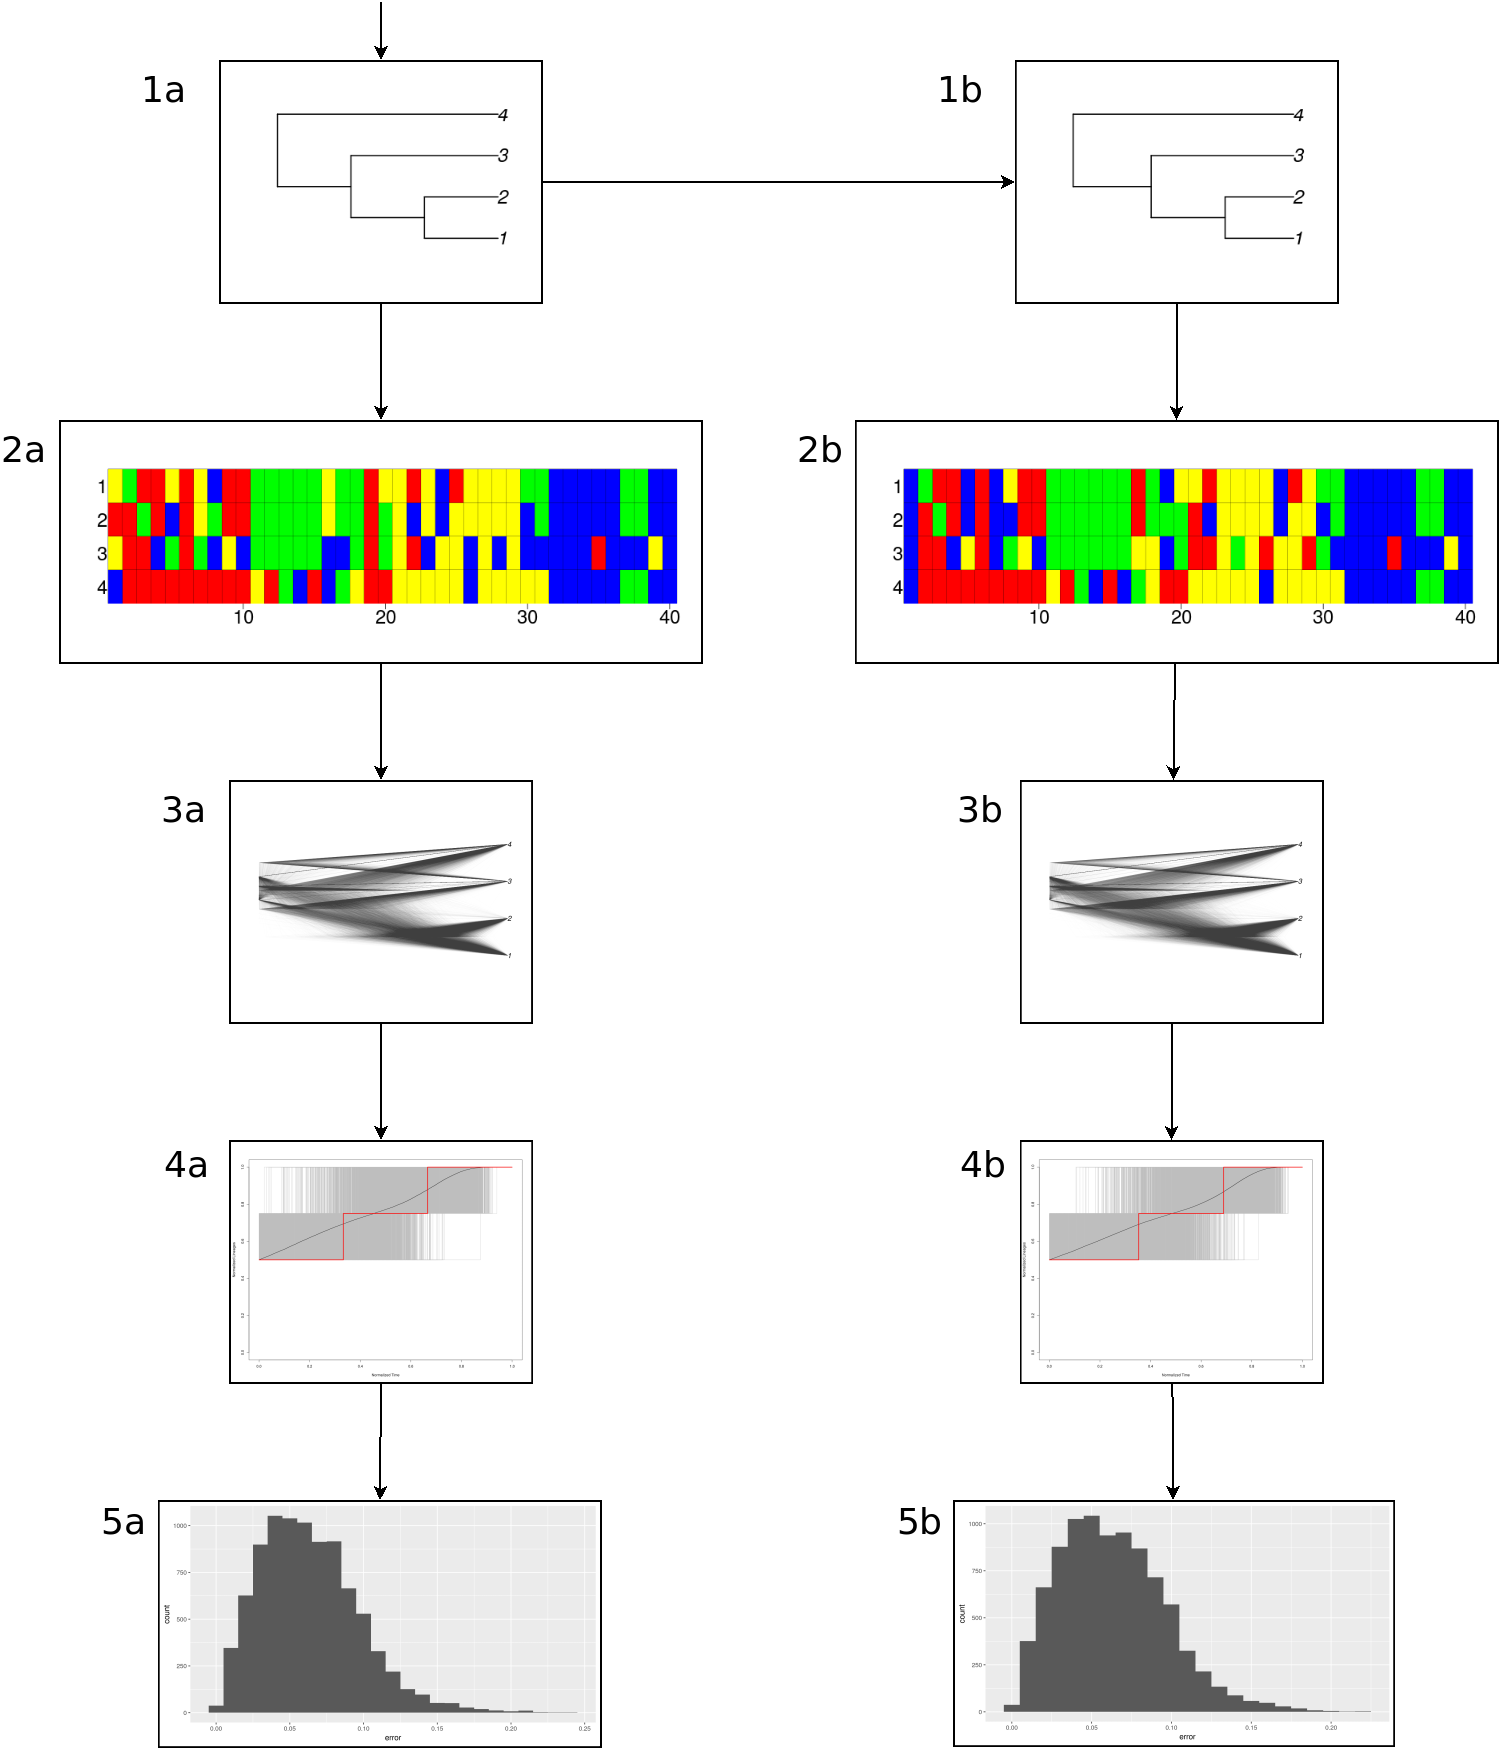
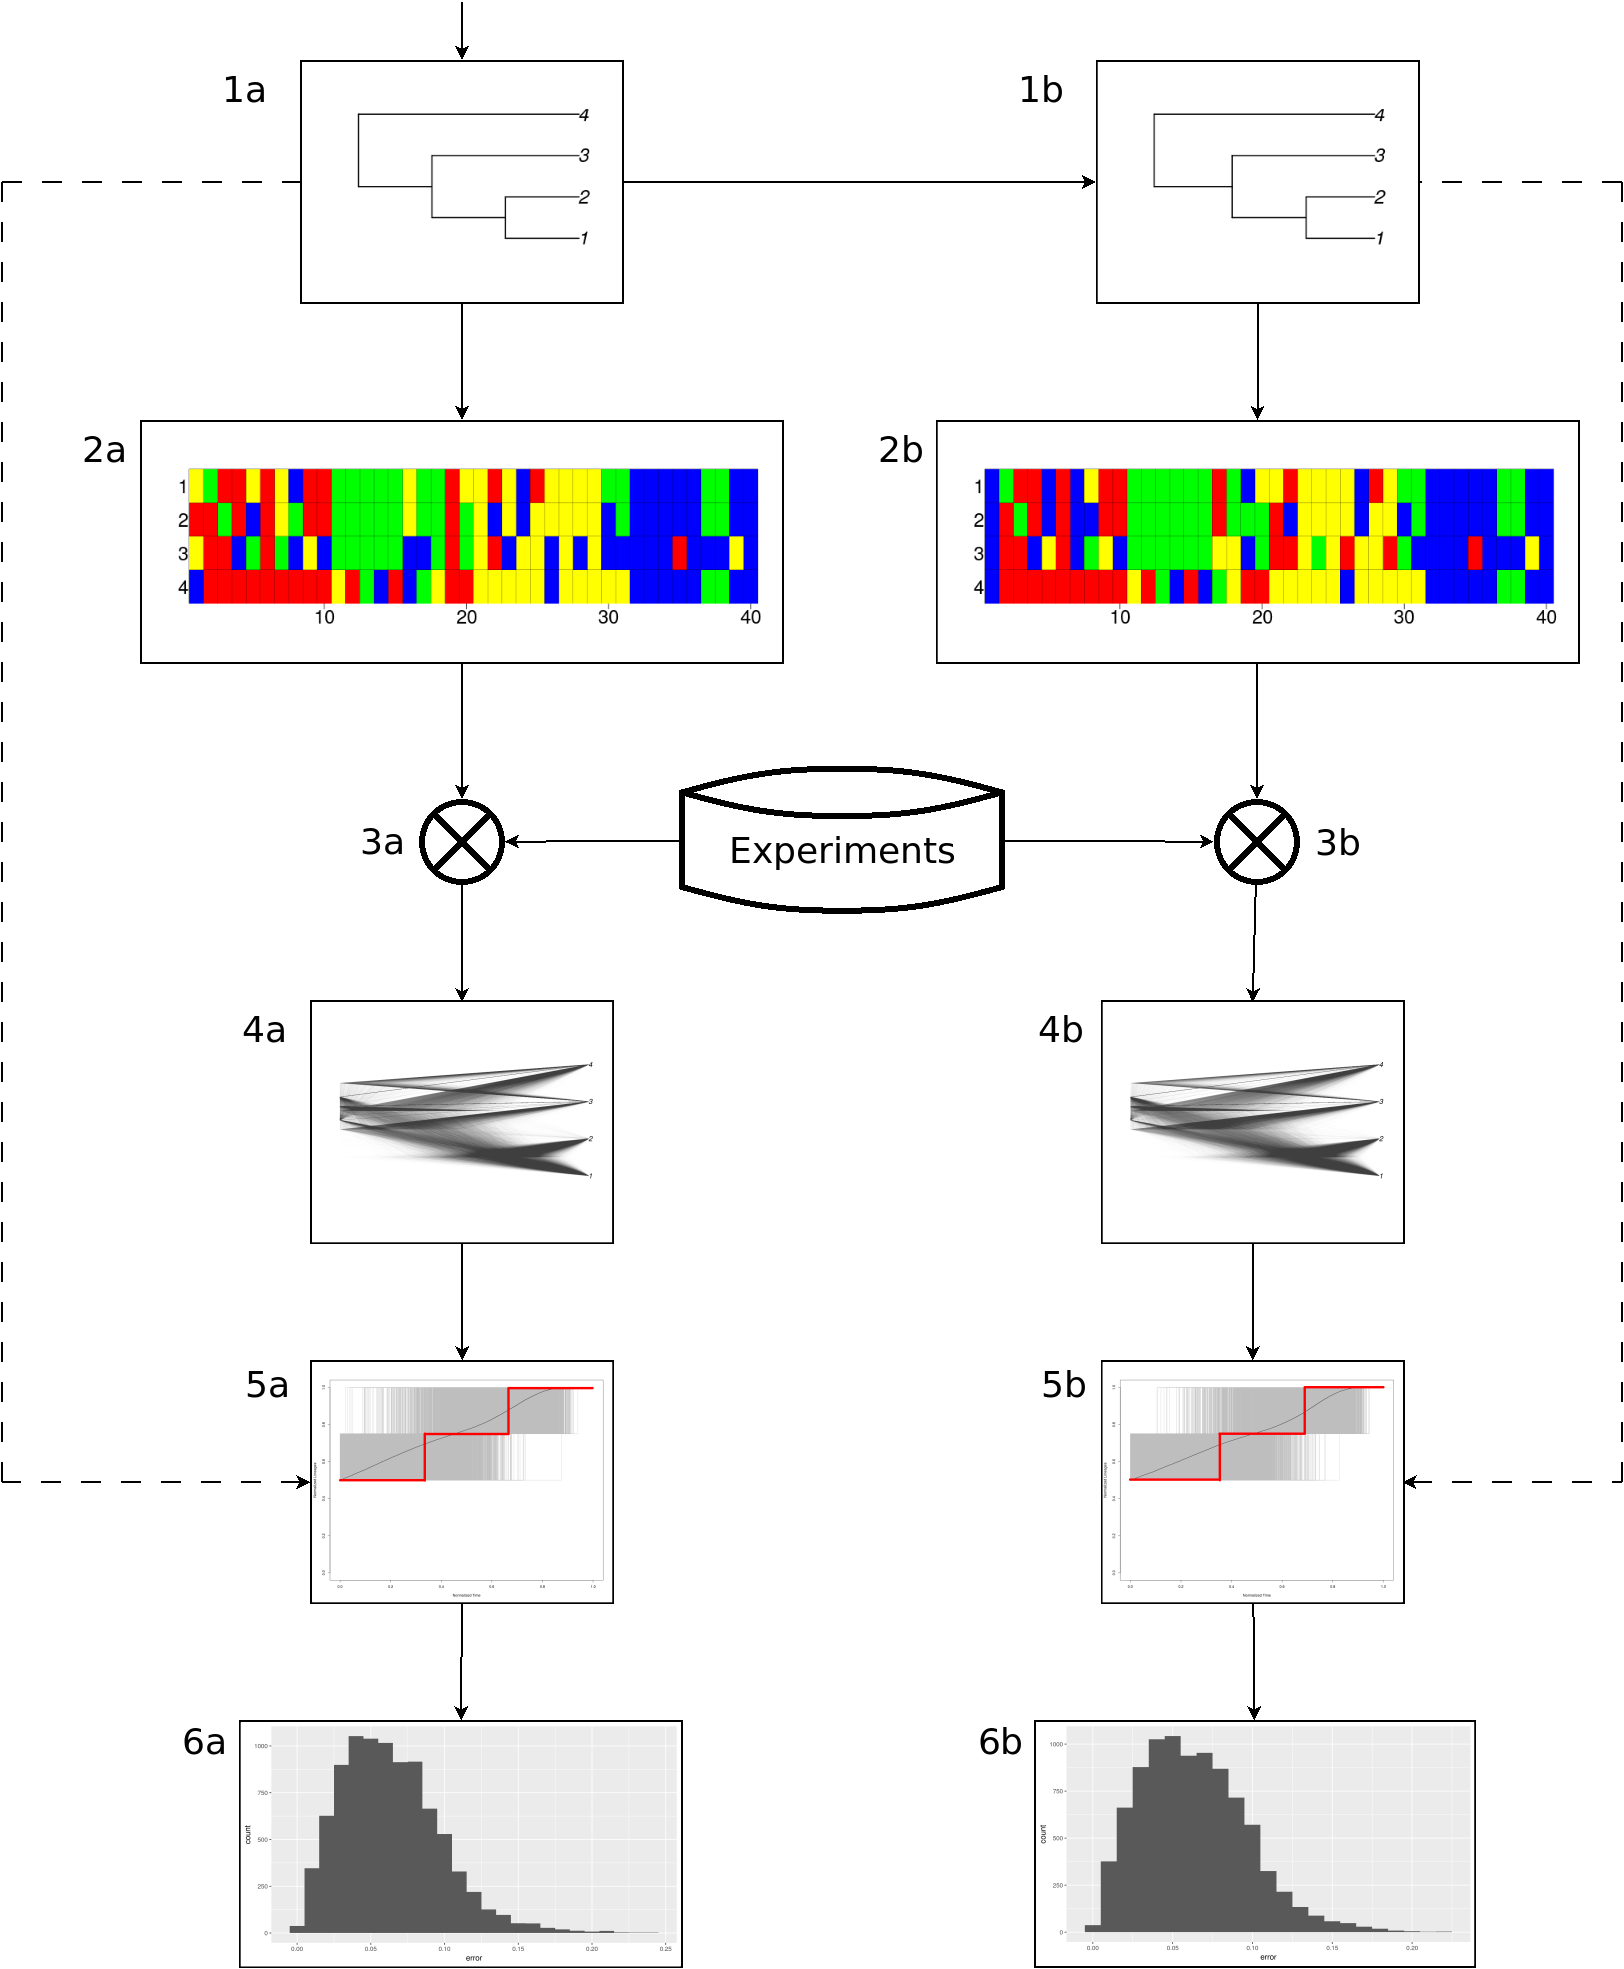
First draft ready for feedback by @rsetienne

diff --git a/article.tex b/article.tex
@@ -214,17 +214,20 @@ recent common ancestor' (MRCA) priors within BEAST2, allow to create a time-cali
   \caption{
     \texttt{pirouette} pipeline. 
     The pipeline starts from a true phylogeny (1a), 
-    that is converted to an alignment (2a), which is used
-    to create a BEAST2 posterior of phylogenies (3a),
-    which is compared to the true phylogeny (1a) \giovanni{this makes me think that we might need an arrow going from 1a to 4a, maybe (and i say maybe) the arrow could be in red to highlight that the "true" nltt is in red too. BTW, the red line is not supervisible.} using
-    the nLTT statistic. (4a) shows the nLTT of the true tree in red,
+    that is converted to an alignment (2a).
+    The experiments are filtered (3a), possibly based on the
+    alignment (2a), to determine which experiments are actually run.
+    The experiment that are actually performed, use the 
+    alignment (2a) to create a BEAST2 posterior of phylogenies (4a),
+    which is compared to the true phylogeny (1a) 
+    using the nLTT statistic. (5a) shows the nLTT of the true tree in red,
     the nLTT of all individual posterior trees in grey, and the average
     nLTT statistic of all posterior trees in black.
     Taking the differences between the true tree's nLTT and each posterior's
     nLTT results in an error distribution, here displayed as a histogram
-    of error values (5a).
+    of error values (6a).
     Optionally, a twin phylogeny (1b) can be generated from a true
-    phylogeny (1a), which then results in an error distribution (5b) with
+    phylogeny (1a), which then results in an error distribution (6b) with
     the similar intermediate steps 
   }
   \label{fig:pipeline}
@@ -250,7 +253,8 @@ a clock model, a random number generator (RNG) seed and a location
 where the alignment is saved to. This step is relatively fast, but longer
 DNA alignments will noticeably slow down the inference step.
 
-The second step selects an inference model, using the alignment \giovanni{Is it worth to add it in the figure, maybe on the side of the vertical pipeline? It could be something like an arrow moving horizontally to the box of inference model. Then the box could have another arrow pointing at the arrow connecting 2 and 3. If you think this is too complicated, and not easy to follow for the reader you can discard it.}.
+The second step selects experiments to be actually run, 
+based on the experiments and the alignment (Fig.~\ref{fig:pipeline}, 2a $\rightarrow$ 3a) 
 The user can specify whether to use the generative model or select the best model from a set of inference models. 
 When selecting the generative model, the site and clock model used in the alignment simulation are used in the inference. Because the given phylogeny (on which the alignment is based)
 may have followed any tree prior (i.e. speciation model), the user needs
@@ -265,7 +269,7 @@ Using BEAST2 packages (in a scripted way) can only be done under Linux and Mac;
 inference model selection is not available on Windows.
 
 The third step infers a Bayesian posterior from the simulated 
-alignment (Fig.~\ref{fig:pipeline}, 2a $\rightarrow$ 3a),
+alignment (Fig.~\ref{fig:pipeline}, 2a $\rightarrow$ 3a $\rightarrow$ 4a),
 using the inference model(s) selected in the previous step. The user
 can specify the additional parameters needed for the BEAST2 run, which
 are the Markov-Chain Monte Carlo (MCMC) setup, 
@@ -275,9 +279,8 @@ An MRCA prior allows the inferred phylogeny to have a dated crown age.
 
 The fourth step compares the true tree to each posterior tree
 error using the nLTT statistic (\cite{janzen2015approximate}) 
-(Fig.~\ref{fig:pipeline}, 3a $\rightarrow$ 4a), resulting
-in an error distribution (Fig.~\ref{fig:pipeline}, 4a $\rightarrow$ 5a).
-\richel{I would not mind to remove 4a and 4b from the figure}
+(Fig.~\ref{fig:pipeline}, 4a $\rightarrow$ 5a), resulting
+in an error distribution (Fig.~\ref{fig:pipeline}, 5a $\rightarrow$ 6a).
 The nLTT statistic is used by default, but also a user-defined error statistic can be used. As an example,
 \verb;pirouette; supplies one custom error statistic,
 that uses an absolute difference in the gamma statistic [\cite{pybus2000testing}].
@@ -294,7 +297,9 @@ An optional step is to generate a 'twin tree' (Fig.~\ref{fig:pipeline}, 1a $\rig
 that will be analyzed in the same way as the true tree.
 The twin tree has the same topology as the given phylogeny, 
 yet its branching times are simulated according to 
-the tree prior used by BEAST2 to produce a posterior \giovanni{is it true? is it Yule or BD? Please check}.
+the tree prior used by BEAST2 to produce a posterior 
+\giovanni{is it true? is it Yule or BD? Please check}
+\richel{It is Yule}.
 The goal of this procedure is to generate a tree 
 to use as a control for the main experiment.
 We produce the twin tree according to the following procedure.
@@ -385,10 +390,8 @@ We start with a Yule (pure-birth) tree with five taxa and a crown age of ten.
     label = {lst:create_yule_tree}, 
     caption = {Create a Yule tree}
   ]
-phylogeny <- create_ideal_tree(n_taxa = 5, crown_age = 10)
+phylogeny <- create_yule_tree(n_taxa = 5, crown_age = 10)
 \end{lstlisting}
-
-\giovanni{do we really want to use a function called "create\_ideal\_tree"?}
 
 \begin{figure}[h]
   \includegraphics[width=\textwidth]{figure_bd.png}
@@ -496,7 +499,11 @@ The resulting figure is shown in figure \ref{fig:example_1}.
   \caption{
     Example 1: the error BEAST2 makes from a phylogeny 
     when the generative and inference model are the same.
-    The x-axis specifies the tree type (which can be 'true' or 'twin'), the y-axis shows the error. \giovanni{This holds true for all the figures: if we want to add these numbers we need to specify what they represent in the caption.}
+    The x-axis specifies the tree type (which can be 'true' or 'twin'), 
+    the y-axis shows the error. 
+    The boxplot shows the minimum, first quartile, median, third 
+    quartile and maximum error, of which the values are displayed 
+    in the adjacent label
   }
   \label{fig:example_1}
 \end{figure}
@@ -598,6 +605,9 @@ The resulting figure is shown in figure \ref{fig:example_2}.
     Example 2: the error BEAST2 makes from a phylogeny when
     picking the best inference model.
     The x-axis specifies the tree type (which can be 'true' or 'twin'), the y-axis shows the error.
+    The boxplot shows the minimum, first quartile, median, third 
+    quartile and maximum error, of which the values are displayed 
+    in the adjacent label
   }
   \label{fig:example_2}
 \end{figure}
@@ -665,6 +675,9 @@ The resulting figure is shown in figure \ref{fig:example_3}
     Example 3: the error made by BEAST2 from a phylogeny, picking the best inference model versus the control.
     Here, the twin column shows the error BEAST2 makes starting from the original tree versus the twin. 
     The x-axis specifies the tree type (which can be 'true' or 'twin'), the y-axis shows the error.
+    The boxplot shows the minimum, first quartile, median, third 
+    quartile and maximum error, of which the values are displayed 
+    in the adjacent label
   }
   \label{fig:example_3}
 \end{figure}
@@ -779,6 +792,9 @@ The resulting figure is shown in figure \ref{fig:example_4}.
   \caption{
     Example 4: the error made by BEAST2 from a phylogeny, when the generative model is known, compared to candidates with similar inference models, in relationship to the background error.
     The x-axis specifies the tree type, the y-axis shows the error.
+    The boxplot shows the minimum, first quartile, median, third 
+    quartile and maximum error, of which the values are displayed 
+    in the adjacent label
   }
   \label{fig:example_4}
 \end{figure}
@@ -806,9 +822,9 @@ The resulting figure is shown in figure \ref{fig:example_4}.
 \end{tabular}
 \caption{Results of the examples. 
   For the true and twin tree,
-  the median and range of the errors 
+  the median and range (from minimum to maximum value) of the errors 
   is shown. Experiment 4 is split in two rows
-  by either the candidate ('C') or generative model ('G'). \giovanni{How do you define range? Are we using the standard error? \url{https://en.wikipedia.org/wiki/Standard_error}}
+  by either the candidate ('C') or generative model ('G')
 }
 \label{tab:results}
 \end{table}
